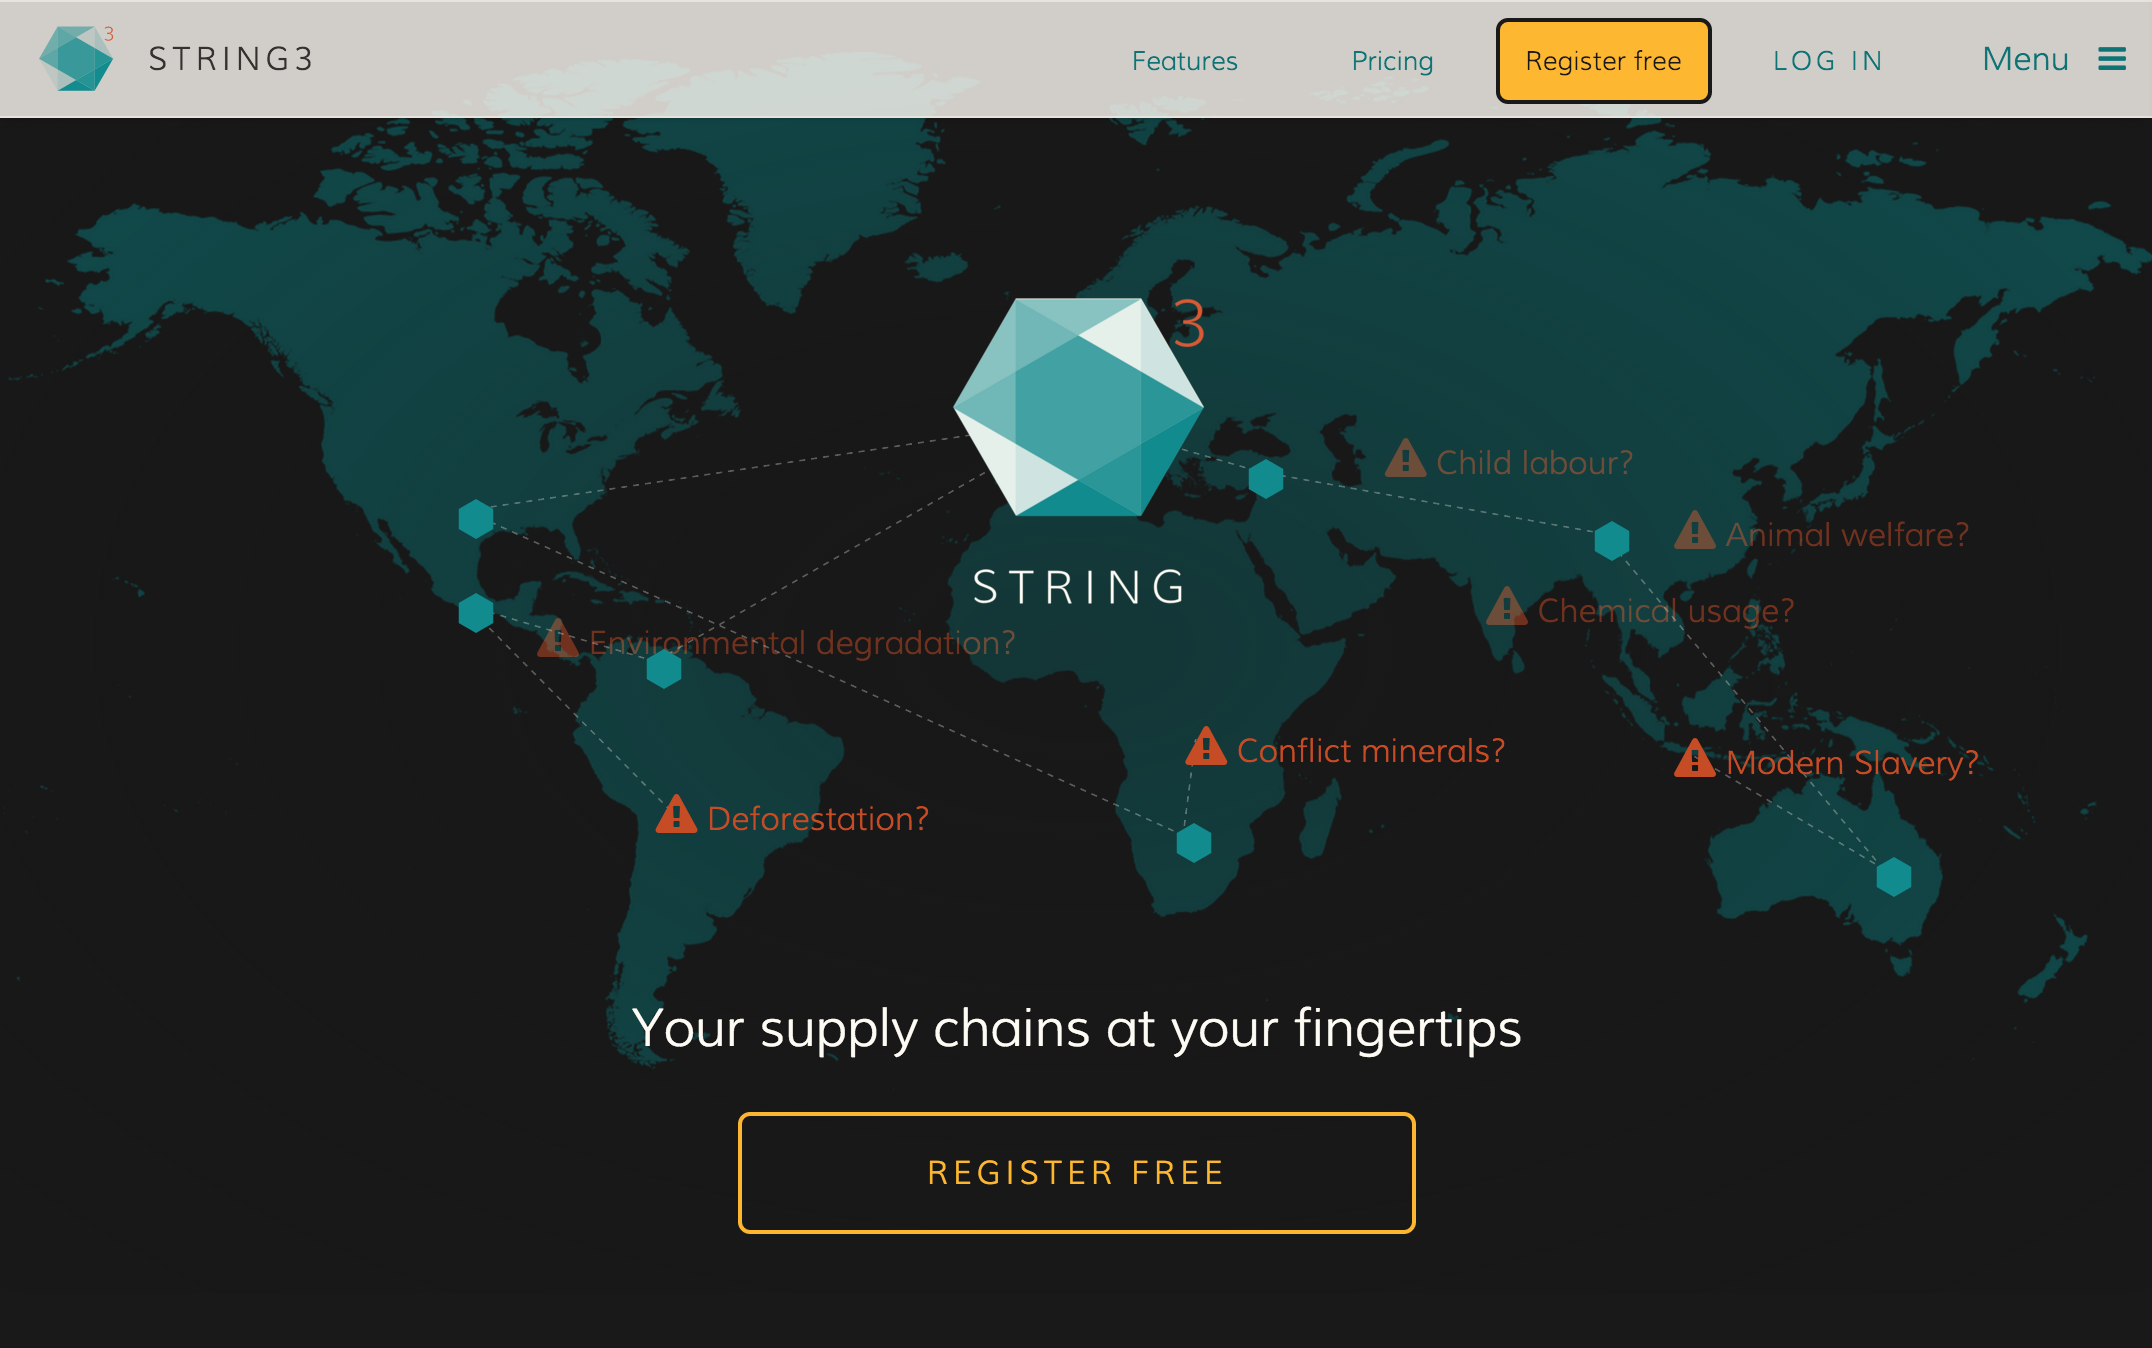
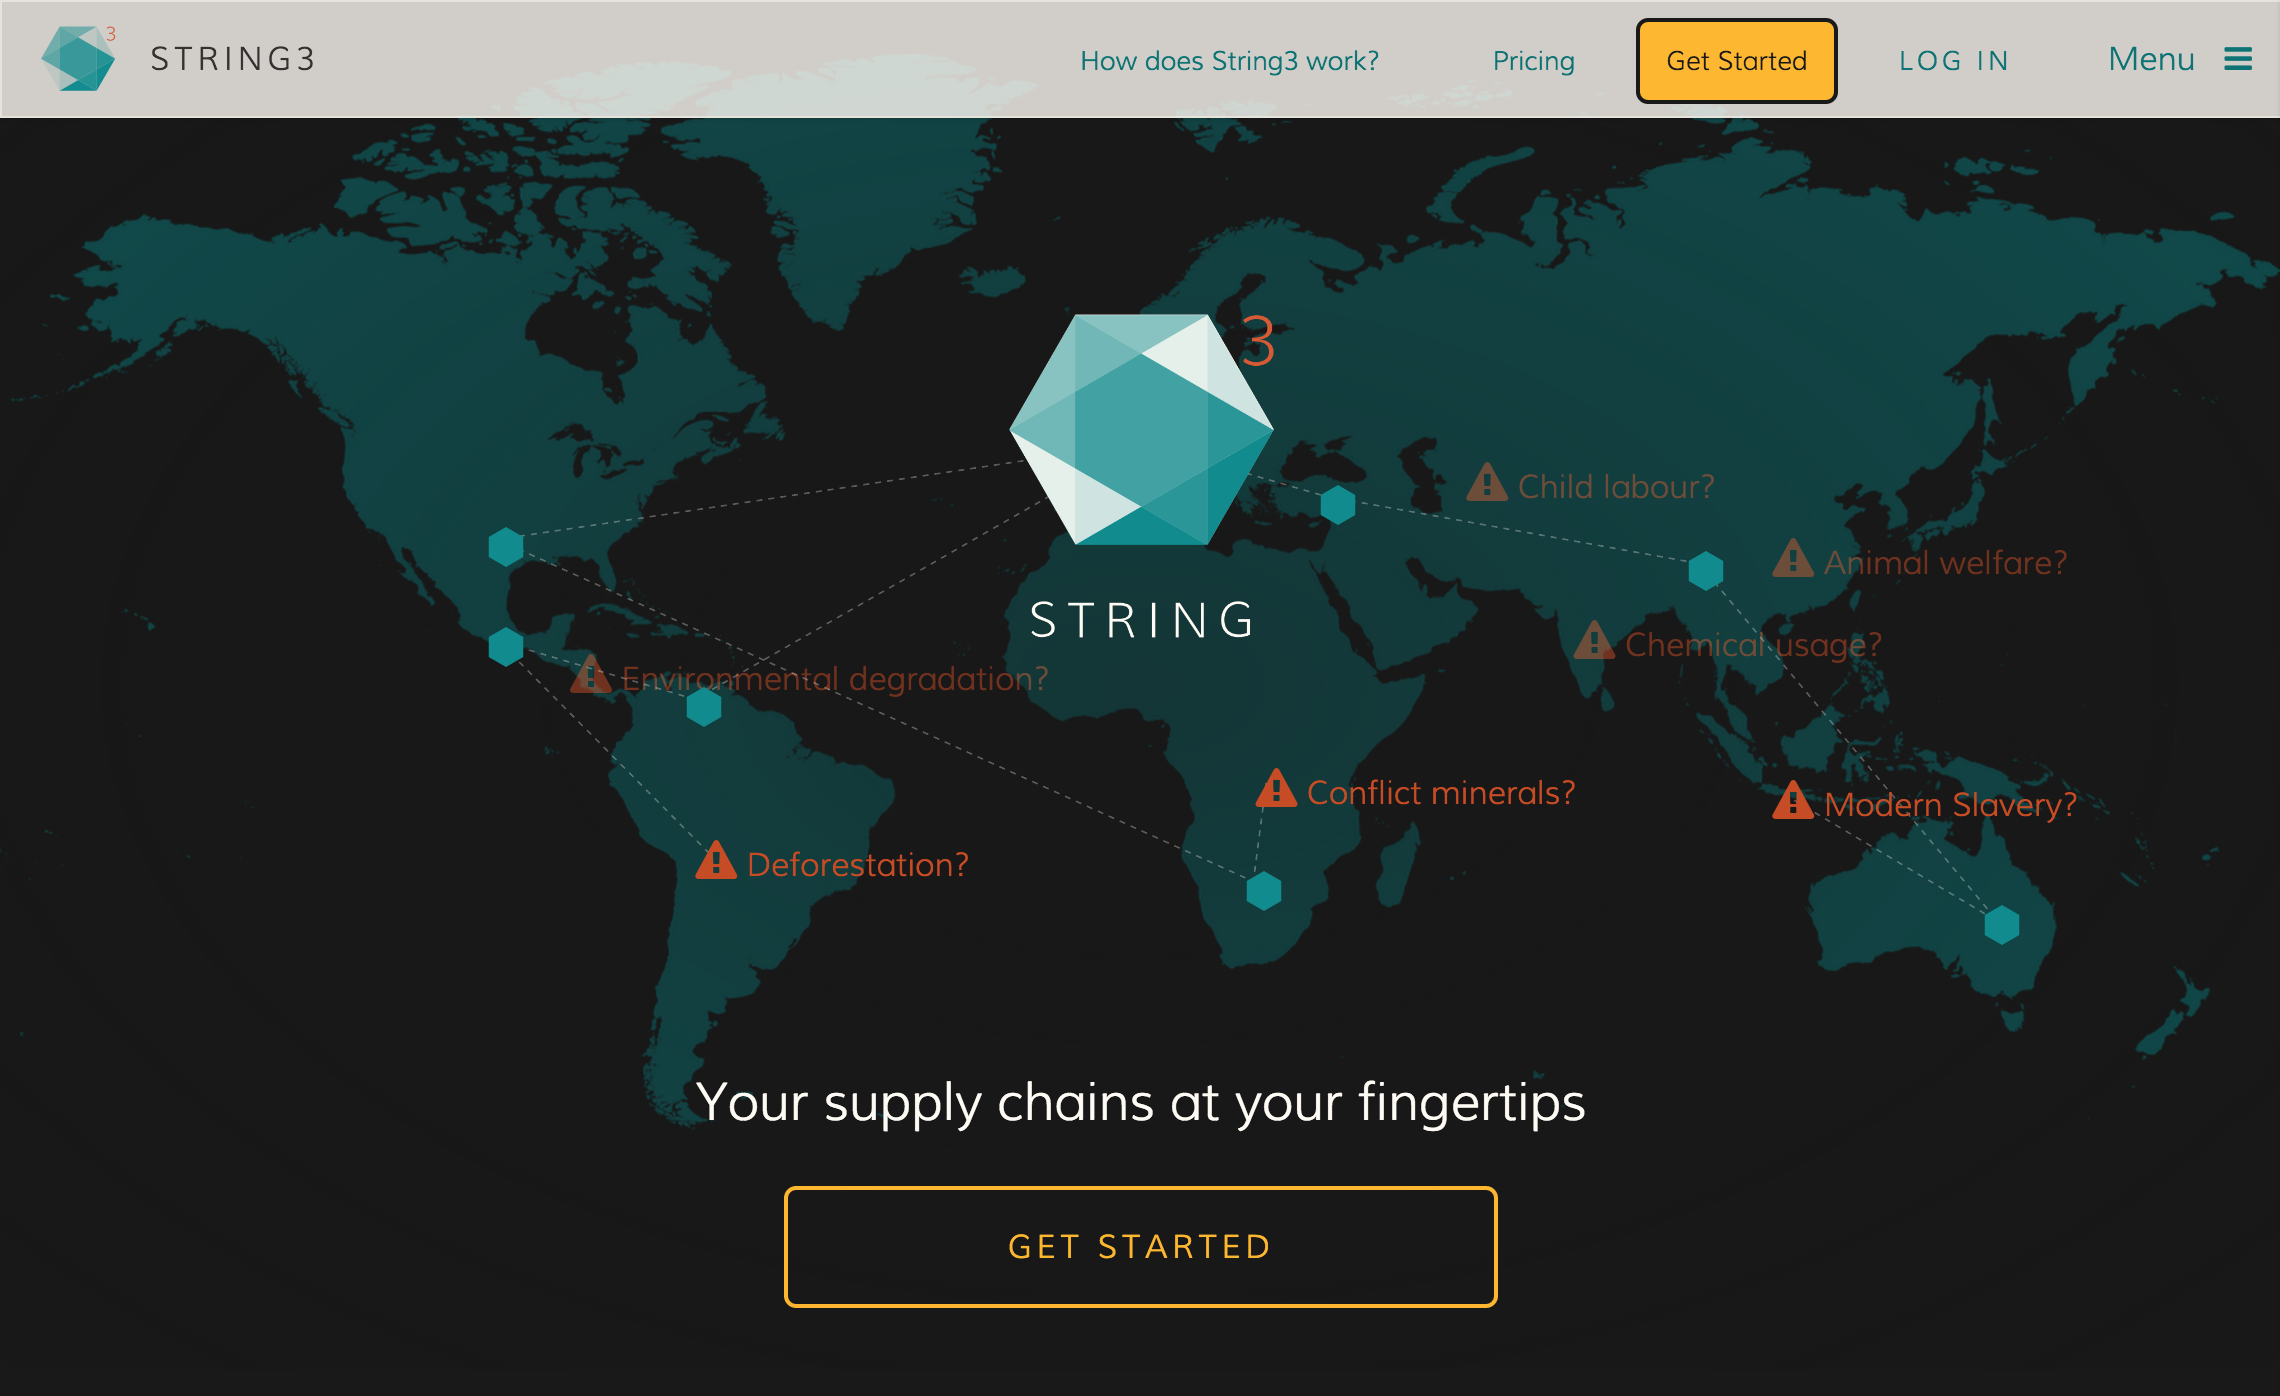
change to get started action

diff --git a/pricing/compare/index.html b/pricing/compare/index.html
@@ -33,7 +33,7 @@ strategyConsulting: "In-depth interpretation of your results for the development
 		</div>
 		<div class="button-holder">
 			<p class="faux-button">
-				<a href="https://app.getstring3.com/account/register/">Register for String3</a>
+				<a href="https://app.getstring3.com/account/register/">Get Started</a>
 			</p>
 		</div>
 	</div>
@@ -613,8 +613,8 @@ strategyConsulting: "In-depth interpretation of your results for the development
           <th scope="row" class="sr-only">
             Choose a plan
           </th><td class="super link center" colspan="3">
-            <a href="https://app.getstring3.com/account/register/" title="Register for free">
-              Register for free
+            <a href="https://app.getstring3.com/account/register/" title="Get Started">
+              Get Started
             </a>
           </td><td class="enterprise link center">
             <a href="/pricing/enterprise/enquire">
@@ -658,8 +658,8 @@ strategyConsulting: "In-depth interpretation of your results for the development
         </ul>
       </div>
       <div class="bottom-block center">
-        <a href="https://app.getstring3.com/account/register/" title="Register for String3">
-          Register for free
+        <a href="https://app.getstring3.com/account/register/" title="Get Started">
+          Get Started
         </a>
       </div>
     </div><!--/free-->
@@ -682,8 +682,8 @@ strategyConsulting: "In-depth interpretation of your results for the development
         <p class="small">With a Standard plan you get everything included in <a href="#free" title="Link to free plan">Free</a> in addition to 24 more questions per year.</p>
       </div>
       <div class="bottom-block center">
-        <a href="https://app.getstring3.com/account/register/" title="Register for String3">
-          Register for free
+        <a href="https://app.getstring3.com/account/register/" title="Get Started">
+          Get Started
         </a>
       </div>
     </div><!--/standard-->
@@ -710,8 +710,8 @@ strategyConsulting: "In-depth interpretation of your results for the development
         </ul>
       </div>
       <div class="bottom-block center">
-        <a href="https://app.getstring3.com/account/register/" title="Register for String3">
-          Register for free
+        <a href="https://app.getstring3.com/account/register/" title="Get Started">
+          Get Started
         </a>
       </div>
     </div><!--/premium-->

diff --git a/features/index.html b/features/index.html
@@ -33,7 +33,7 @@ nextLink: "/pricing"
   <p>Why not test out String3 today. Identify some products you think may be a source of risk; send some StringQuestions and see what String3 can tell you. It’s free for the first 12 Questions. </p>
   <div class="feature-section--button-holder">
     <p class="faux-button commit ondark">
-      <a href="https://app.getstring3.com/account/register/" title="Register for String3 for free">Register free</a>
+      <a href="https://app.getstring3.com/account/register/" title="Get Started for free">Get Started</a>
     </p>
   </div>
   </div>
@@ -64,7 +64,7 @@ nextLink: "/pricing"
 	<p>If you would like to see how easy it is for yourself, register for free today and start sending StringQuestions to your suppliers!</p>
   <div class="feature-section--button-holder">
     <p class="faux-button commit ondark">
-      <a href="https://app.getstring3.com/account/register/" title="Register for String3 for free">Register free</a>
+      <a href="https://app.getstring3.com/account/register/" title="Get Started for free">Get Started</a>
     </p>
   </div>
   </div>
@@ -101,7 +101,7 @@ nextLink: "/pricing"
   </ul>
   <div class="feature-section--button-holder">
     <p class="faux-button commit">
-      <a href="https://app.getstring3.com/account/register/" title="Register for String3 for free">Register free</a>
+      <a href="https://app.getstring3.com/account/register/" title="Get Started for free">Get Started</a>
     </p>
     </div>
     <p class="clearfix">Want to talk it through with us? Email <a href="mailto:hello@getstring3.com" title="Email hello@getstring3.com">hello@getstring3.com</a> and we’ll be in touch to answer any questions you have. We try to answer all emails within 1 working day. </p>

diff --git a/pricing/index.html b/pricing/index.html
@@ -13,7 +13,7 @@ nextLink: "/why"
 		You can ask up to 12 questions a year about your supply chains for free. If you need more, you can upgrade once you're using String3. We never charge suppliers to respond to your questions.
 	</p>
 	<p class="faux-button commit">
-		<a href="https://app.getstring3.com/account/register/">Register for free</a>
+		<a href="https://app.getstring3.com/account/register/">Get Started</a>
 	</p>
 </div>
 <!--<div class="free-plan">
@@ -26,7 +26,7 @@ nextLink: "/why"
 		<p>On a free plan you get to ask 12 questions a year using String3’s pre-defined question templates as well as access to String3 for a year to get reports on question progress and supplier status.</p>
 		<p class="extra-margin-bottom"><a href="free" title="More information about Free">Find out more about the Free plan</a></p>
 		<p class="faux-button">
-			<a href="https://app.getstring3.com/account/register/">Register for String3</a>
+			<a href="https://app.getstring3.com/account/register/">Get Started</a>
 		</p>
 	</div>
 </div>-->
@@ -38,7 +38,7 @@ nextLink: "/why"
 	</div>
 	<div class="button-holder">
 		<p class="faux-button">
-			<a href="https://app.getstring3.com/account/register/">Register for String3</a>
+			<a href="https://app.getstring3.com/account/register/">Get Started</a>
 		</p>
 	</div>
 </div>-->

diff --git a/index.html b/index.html
@@ -78,8 +78,8 @@ nextLink: "/features"
 	</div>
 	<div class="button-holder">
 		<p class="faux-button commit ondark">
-		<a href="https://app.getstring3.com/account/register/" title="Register for String3">
-			Register free
+		<a href="https://app.getstring3.com/account/register/" title="Get Started">
+			Get Started
 		</a>
 	</p>
 
@@ -113,7 +113,7 @@ nextLink: "/features"
 	</div><!--/promotion-->
 	<div class="featured">
 		<div class="inner">
-			
+
 			<ul>
 				<li class="featured-1">
 					<img src="/assets/img/answers.png" alt=""/>
@@ -150,7 +150,7 @@ nextLink: "/features"
 			</p>
 			<div class="button-holder">
 			<p class="faux-button commit">
-				<a href="https://app.getstring3.com/account/register/" title="Register for String3">Register free</a>
+				<a href="https://app.getstring3.com/account/register/" title="Get Started">Get Started</a>
 			</p>
 			</div>
 		</div><!--/inner-->

diff --git a/_includes/head.html b/_includes/head.html
@@ -55,7 +55,7 @@
                     <ul>
                       <li class="secondary"><a href="/features" title="String3's features">How does String3 work?</a></li>
                       <li class="secondary"><a href="/pricing" title="String3's pricing">Pricing</a></li>
-                        <li class="faux-button--small commit"><a href="https://app.getstring3.com/account/register/" title="Register for String3">Register free</a></li>
+                        <li class="faux-button--small commit"><a href="https://app.getstring3.com/account/register/" title="Get Started">Get Started</a></li>
                         <li class="login"><a href="https://app.getstring3.com/account/login/" title="Log in to String3">Log in</a></li>
                     </ul>
                 </nav>

diff --git a/_includes/foot.html b/_includes/foot.html
@@ -17,7 +17,7 @@
 
                 <li{% if page.url == '/pricing/' %} class="active"{% endif %}><a href="/pricing">Pricing</a></li>
                 <!--<li class="get-started{% if page.url == '/signup/index.html' %} active{% endif %}"><a href="/signup">Get started</a></li>-->
-                <li class="get-started"><a href="https://app.getstring3.com/account/register/">Register free</a></li>
+                <li class="get-started"><a href="https://app.getstring3.com/account/register/">Get Started</a></li>
                 <li class="login"><a href="https://app.getstring3.com/account/login/" title="Log in to String3">Log in</a></li>
               </ul>
               <ul class="secondary">

diff --git a/_includes/head_no-get-started.html b/_includes/head_no-get-started.html
@@ -17,7 +17,7 @@
         <meta name="twitter:creator" content="@historic_future">
         <meta name="twitter:title" content="String3">
         <meta name="twitter:description" content="String3 - Find out where your products come from. {{ page.title }}">
-        <meta name="twitter:image" content="http://getstring3.com/assets/img/screenshot-{{ page.slug }}.png">
+        <meta name="twitter:image" content="http://getstring3.com/assets/img/screenshot.png">
 
         <!-- Custom CSS -->
         <!--[if !((IE 6)|(IE 7))]><!--><link rel="stylesheet" href="/css/main.css"><!--<![endif]-->

diff --git a/pricing/old.html b/pricing/old.html
@@ -23,7 +23,7 @@ nextLink: "/materials"
 	</div>
 	<div class="button-holder">
 		<p class="button">
-			<a href="/signup">Register for String3</a>
+			<a href="/signup">Get Started</a>
 		</p>
 	</div>
 </div>
@@ -161,7 +161,7 @@ nextLink: "/materials"
 	</div>
 	<div class="button-holder">
 		<p class="button">
-			<a href="/signup">Register for String3</a>
+			<a href="/signup">Get Started</a>
 		</p>
 	</div>
 </div>

diff --git a/pricing/enterprise/enquire/index.html b/pricing/enterprise/enquire/index.html
@@ -18,7 +18,7 @@ nextLink: "/materials"
   </div>
   <div class="button-holder">
     <p class="faux-button">
-      <a href="https://app.getstring3.com/account/register/">Register for String3</a>
+      <a href="https://app.getstring3.com/account/register/">Get Started</a>
     </p>
   </div>
 </div>

diff --git a/pricing/enterprise/enquire/thank-you.html b/pricing/enterprise/enquire/thank-you.html
@@ -19,7 +19,7 @@ nextLink: "/why"
   </div>
   <div class="button-holder">
     <p class="faux-button">
-      <a href="https://app.getstring3.com/account/register/">Register for String3</a>
+      <a href="https://app.getstring3.com/account/register/">Get Started</a>
     </p>
   </div>
 </div>

diff --git a/pricing/free/index.html b/pricing/free/index.html
@@ -27,7 +27,7 @@ nextLink: "/materials"
 	</div>
 	<div class="button-holder">
 		<p class="faux-button">
-			<a href="https://app.getstring3.com/account/register/">Register for String3</a>
+			<a href="https://app.getstring3.com/account/register/">Get Started</a>
 		</p>
 	</div>
 

diff --git a/pricing/premium/index.html b/pricing/premium/index.html
@@ -29,7 +29,7 @@ nextLink: "/materials"
 	</div>
 	<div class="button-holder">
 		<p class="faux-button">
-			<a href="https://app.getstring3.com/account/register/">Register for String3</a>
+			<a href="https://app.getstring3.com/account/register/">Get Started</a>
 		</p>
 	</div>
 
